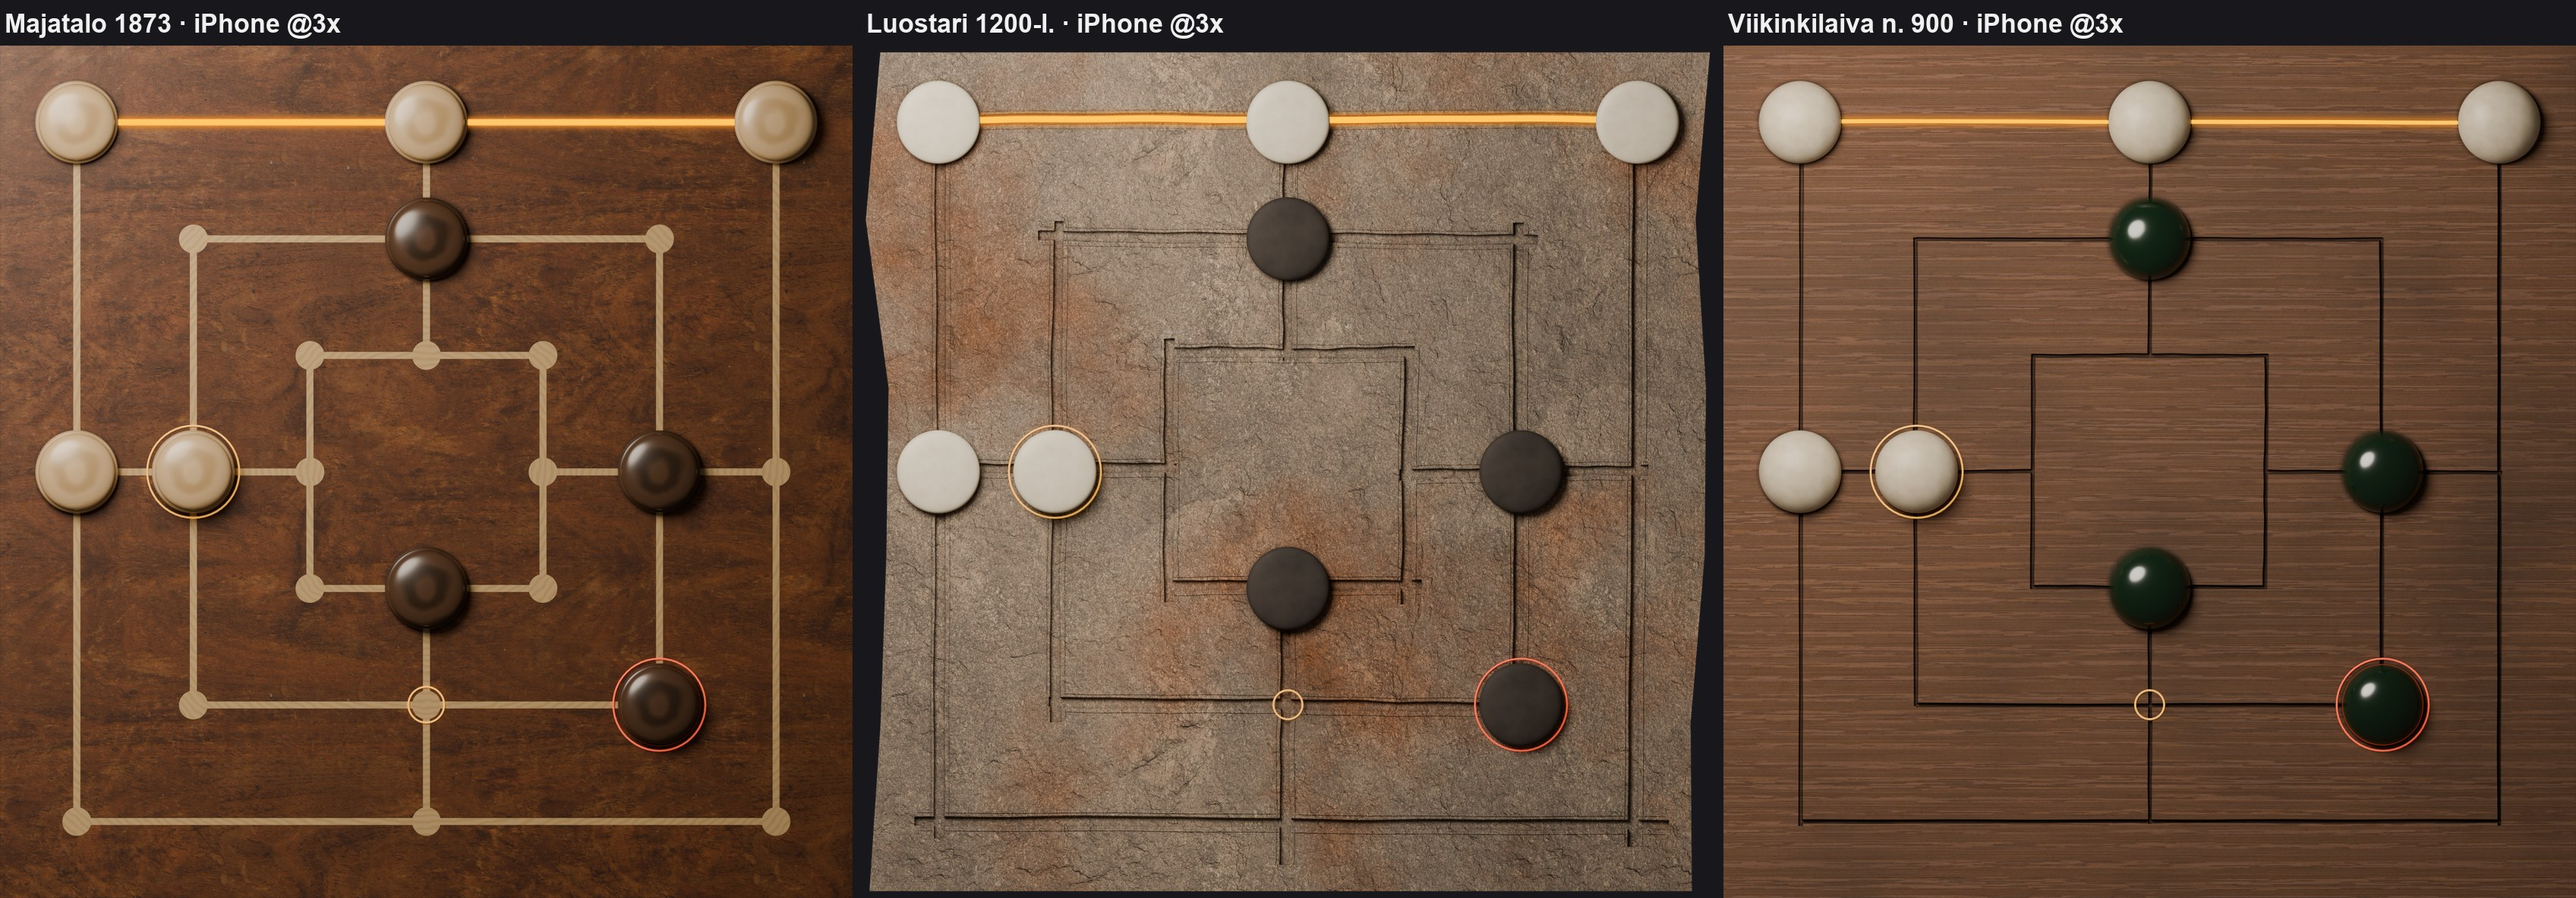
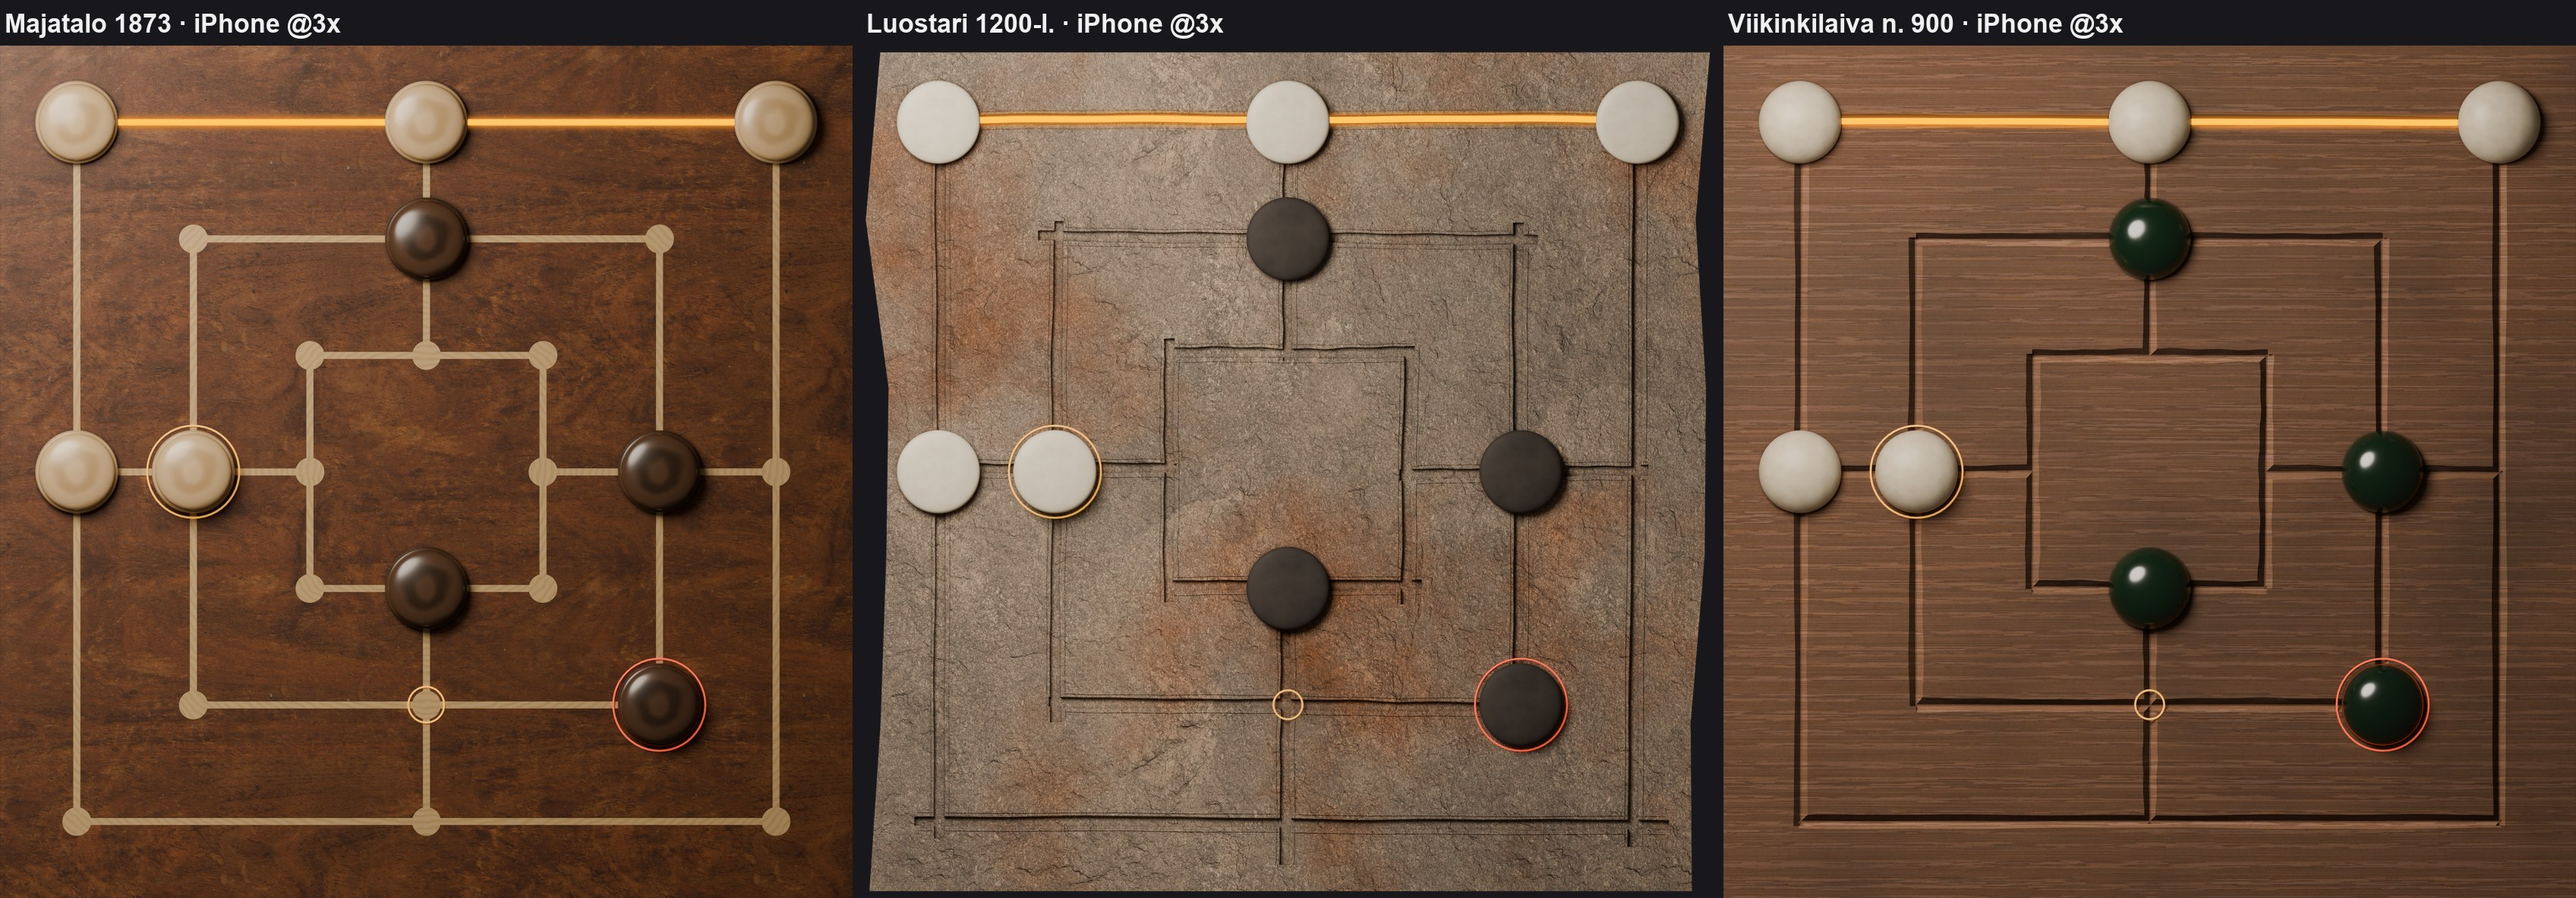
Linnanrakentaja: viikinkilaivan viivat kaiverretuiksi V-uriksi (leikkaajan yläpinta pinnan tasolle, seinät valon mukaan), mylly_laudat.sh: LAUDAT-rajaus ja raakamallit erilleen hehkusta

diff --git a/tools/linssit/blender/mylly_lauta.py b/tools/linssit/blender/mylly_lauta.py
@@ -32,7 +32,9 @@ TYYLIT = {
                           kuoppa_r=0.0, kuoppa_syv=0.0, heilunta=0.0012, yli=(0.004, 0.06), vino=0.005, upotus=None,
                           nappula='kiekko', reunat=True, murtuma=True),
     # Gokstad: siisti, ammattimainen kaiverrus (terävä V-ura), ei pistekuoppia
-    'viikinkilaiva': dict(paksuus=0.05, viiste=0.006, viiste_os=1, ura_lev=0.012, ura_syv=0.005, kapenee=0.2,
+    # v2b (Päätoimittaja 3.10.): "kynänviiva" → oikea V-ura. Juurisyy: leikkaaja ulottui 1 cm pinnan yläpuolelle, joten
+    # V kapeni jo ennen pintaa (pinnassa ~⅓ leveydestä); ura_yla = leikkaajan yläpinta → pinnassa täysi leveys
+    'viikinkilaiva': dict(paksuus=0.05, viiste=0.006, viiste_os=1, ura_lev=0.018, ura_syv=0.006, kapenee=0.1, ura_yla=0.0004,
                           kuoppa_r=0.0, kuoppa_syv=0.0, heilunta=0.0004, yli=(0.0, 0.006), vino=0.0015, upotus=None,
                           nappula='kupu'),
 }
@@ -139,7 +141,22 @@ def lauta_viikinkilaiva():
     nt.links.new(ra.outputs['Result'], tk.inputs[0])
     terva = nt.nodes.new('ShaderNodeMix'); terva.data_type = 'RGBA'; terva.inputs['B'].default_value = (0.045, 0.030, 0.018, 1)
     nt.links.new(tk.outputs['Value'], terva.inputs['Factor']); nt.links.new(puu, terva.inputs['A'])
-    _ao_kerto(nt, terva.outputs['Result'], b, vahvuus=1.0, etaisyys=0.006)
+    # v2b: kaiverruksen seinät valon mukaan — valoon päin oleva seinä vaalenee, vastakkainen ja pohja tummuvat
+    # (pehmeä iso avainvalo ei yksin erota V-uran seiniä ylhäältä katsottuna). Kerroin = 1 + 2,2·(n·L − n₀·L), rajattu.
+    ge = nt.nodes.new('ShaderNodeNewGeometry'); L = Vector((-0.9, 0.9, 1.6)).normalized()
+    dp = nt.nodes.new('ShaderNodeVectorMath'); dp.operation = 'DOT_PRODUCT'; dp.inputs[1].default_value = tuple(L)
+    nt.links.new(ge.outputs['Normal'], dp.inputs[0])
+    def _vali(a, b_, c, d):
+        mr = nt.nodes.new('ShaderNodeMapRange'); mr.clamp = True
+        for k_, v_ in (('From Min', a), ('From Max', b_), ('To Min', c), ('To Max', d)): mr.inputs[k_].default_value = v_
+        nt.links.new(dp.outputs['Value'], mr.inputs['Value']); return mr.outputs['Result']
+    sv = nt.nodes.new('ShaderNodeMath'); sv.operation = 'ADD'   # pinta 1,0; varjoseinä → 0,4; valoseinä → 1,7
+    nt.links.new(_vali(L.z - 0.50, L.z, 0.40, 1.0), sv.inputs[0]); nt.links.new(_vali(L.z, L.z + 0.07, 0.0, 0.7), sv.inputs[1])
+    kv = nt.nodes.new('ShaderNodeMix'); kv.data_type = 'RGBA'; kv.blend_type = 'MULTIPLY'; kv.inputs['Factor'].default_value = 1.0
+    nt.links.new(terva.outputs['Result'], kv.inputs['A'])
+    cmb = nt.nodes.new('ShaderNodeCombineColor'); [nt.links.new(sv.outputs['Value'], cmb.inputs[i]) for i in range(3)]
+    nt.links.new(cmb.outputs['Color'], kv.inputs['B'])
+    _ao_kerto(nt, kv.outputs['Result'], b, vahvuus=0.35, etaisyys=0.004)   # v2b: uran pohja varjoon, ei mustaksi
     # karheus: puu kuiva, terva kiiltävämpi
     kr = nt.nodes.new('ShaderNodeMix'); kr.data_type = 'FLOAT'; kr.inputs['A'].default_value = 0.8; kr.inputs['B'].default_value = 0.42
     nt.links.new(tk.outputs['Value'], kr.inputs['Factor']); nt.links.new(kr.outputs['Result'], b.inputs['Roughness'])
@@ -302,7 +319,7 @@ def lauta(mat):
         sisa = (T['yli'][0], T['yli'][1] * 0.12)               # keskilinjan sisäpää ei mene sisäneliöön
         pol, sis = veto_polku(p0, p1, rnd, T['heilunta'], yli, T['vino'], yli_loppu=sisa if j >= 12 else None)
         lf = (lambda g: (lambda t: 0.92 + 0.16 * g(t)))(_kohina(rnd)) if T['heilunta'] else None
-        kok.objects.link(nauha('ura', pol, T['ura_lev'], -T['ura_syv'], 0.01, T['kapenee'], lf))
+        kok.objects.link(nauha('ura', pol, T['ura_lev'], -T['ura_syv'], T.get('ura_yla', 0.01), T['kapenee'], lf))
         polut.append(sis); vedot.append(pol)
     if T['kuoppa_r']:
         for x, y in pisteet():

diff --git a/docs/raportit/mylly-laudat-20261001.md b/docs/raportit/mylly-laudat-20261001.md
@@ -55,7 +55,8 @@ esikuvien mukaan, koska niistä tulee ansaittavia esineitä. Kaikilla kolmella l
 
 ## Kerrokset (Siirtosepän speksi 1.10.)
 Kansio `/Users/Shared/Claude/proto-3d/_valmiit/mylly-laudat/v2/` (3.10.: pyöreä avainvalo → lasin kiilto ei neliönä, viikinkitammen
-kirveenjäljet hillitymmiksi, koska toistuivat aaltokuviona; v1 ennallaan). Kaikki tiedostot ovat suoran alfan PNG:itä.
+kirveenjäljet hillitymmiksi, koska toistuivat aaltokuviona; viikinkilaivan viivat oikeiksi V-uriksi, joiden valon puoleinen
+seinä vaalenee ja varjon puoleinen tummuu — aiemmin leikkaaja kapeni jo pinnan yläpuolella ja ura näkyi ohuena viivana; v1 ennallaan). Kaikki tiedostot ovat suoran alfan PNG:itä.
 Koko ketju yhdellä ajolla: `tools/linssit/blender/mylly_laudat.sh <kansio> [näytteitä]` (kerrokset, jälkikäsittely, mallikuvat, SHA256SUMS).
 - `lauta-<tunnus>.png`, 2048²: lauta, urat ja pisteet.
 - `hehku-<tunnus>.png`, 2048²: kaikkien 16 myllyviivan kultahehku. Koodi rajaa yhden myllyn suorakaiteella
